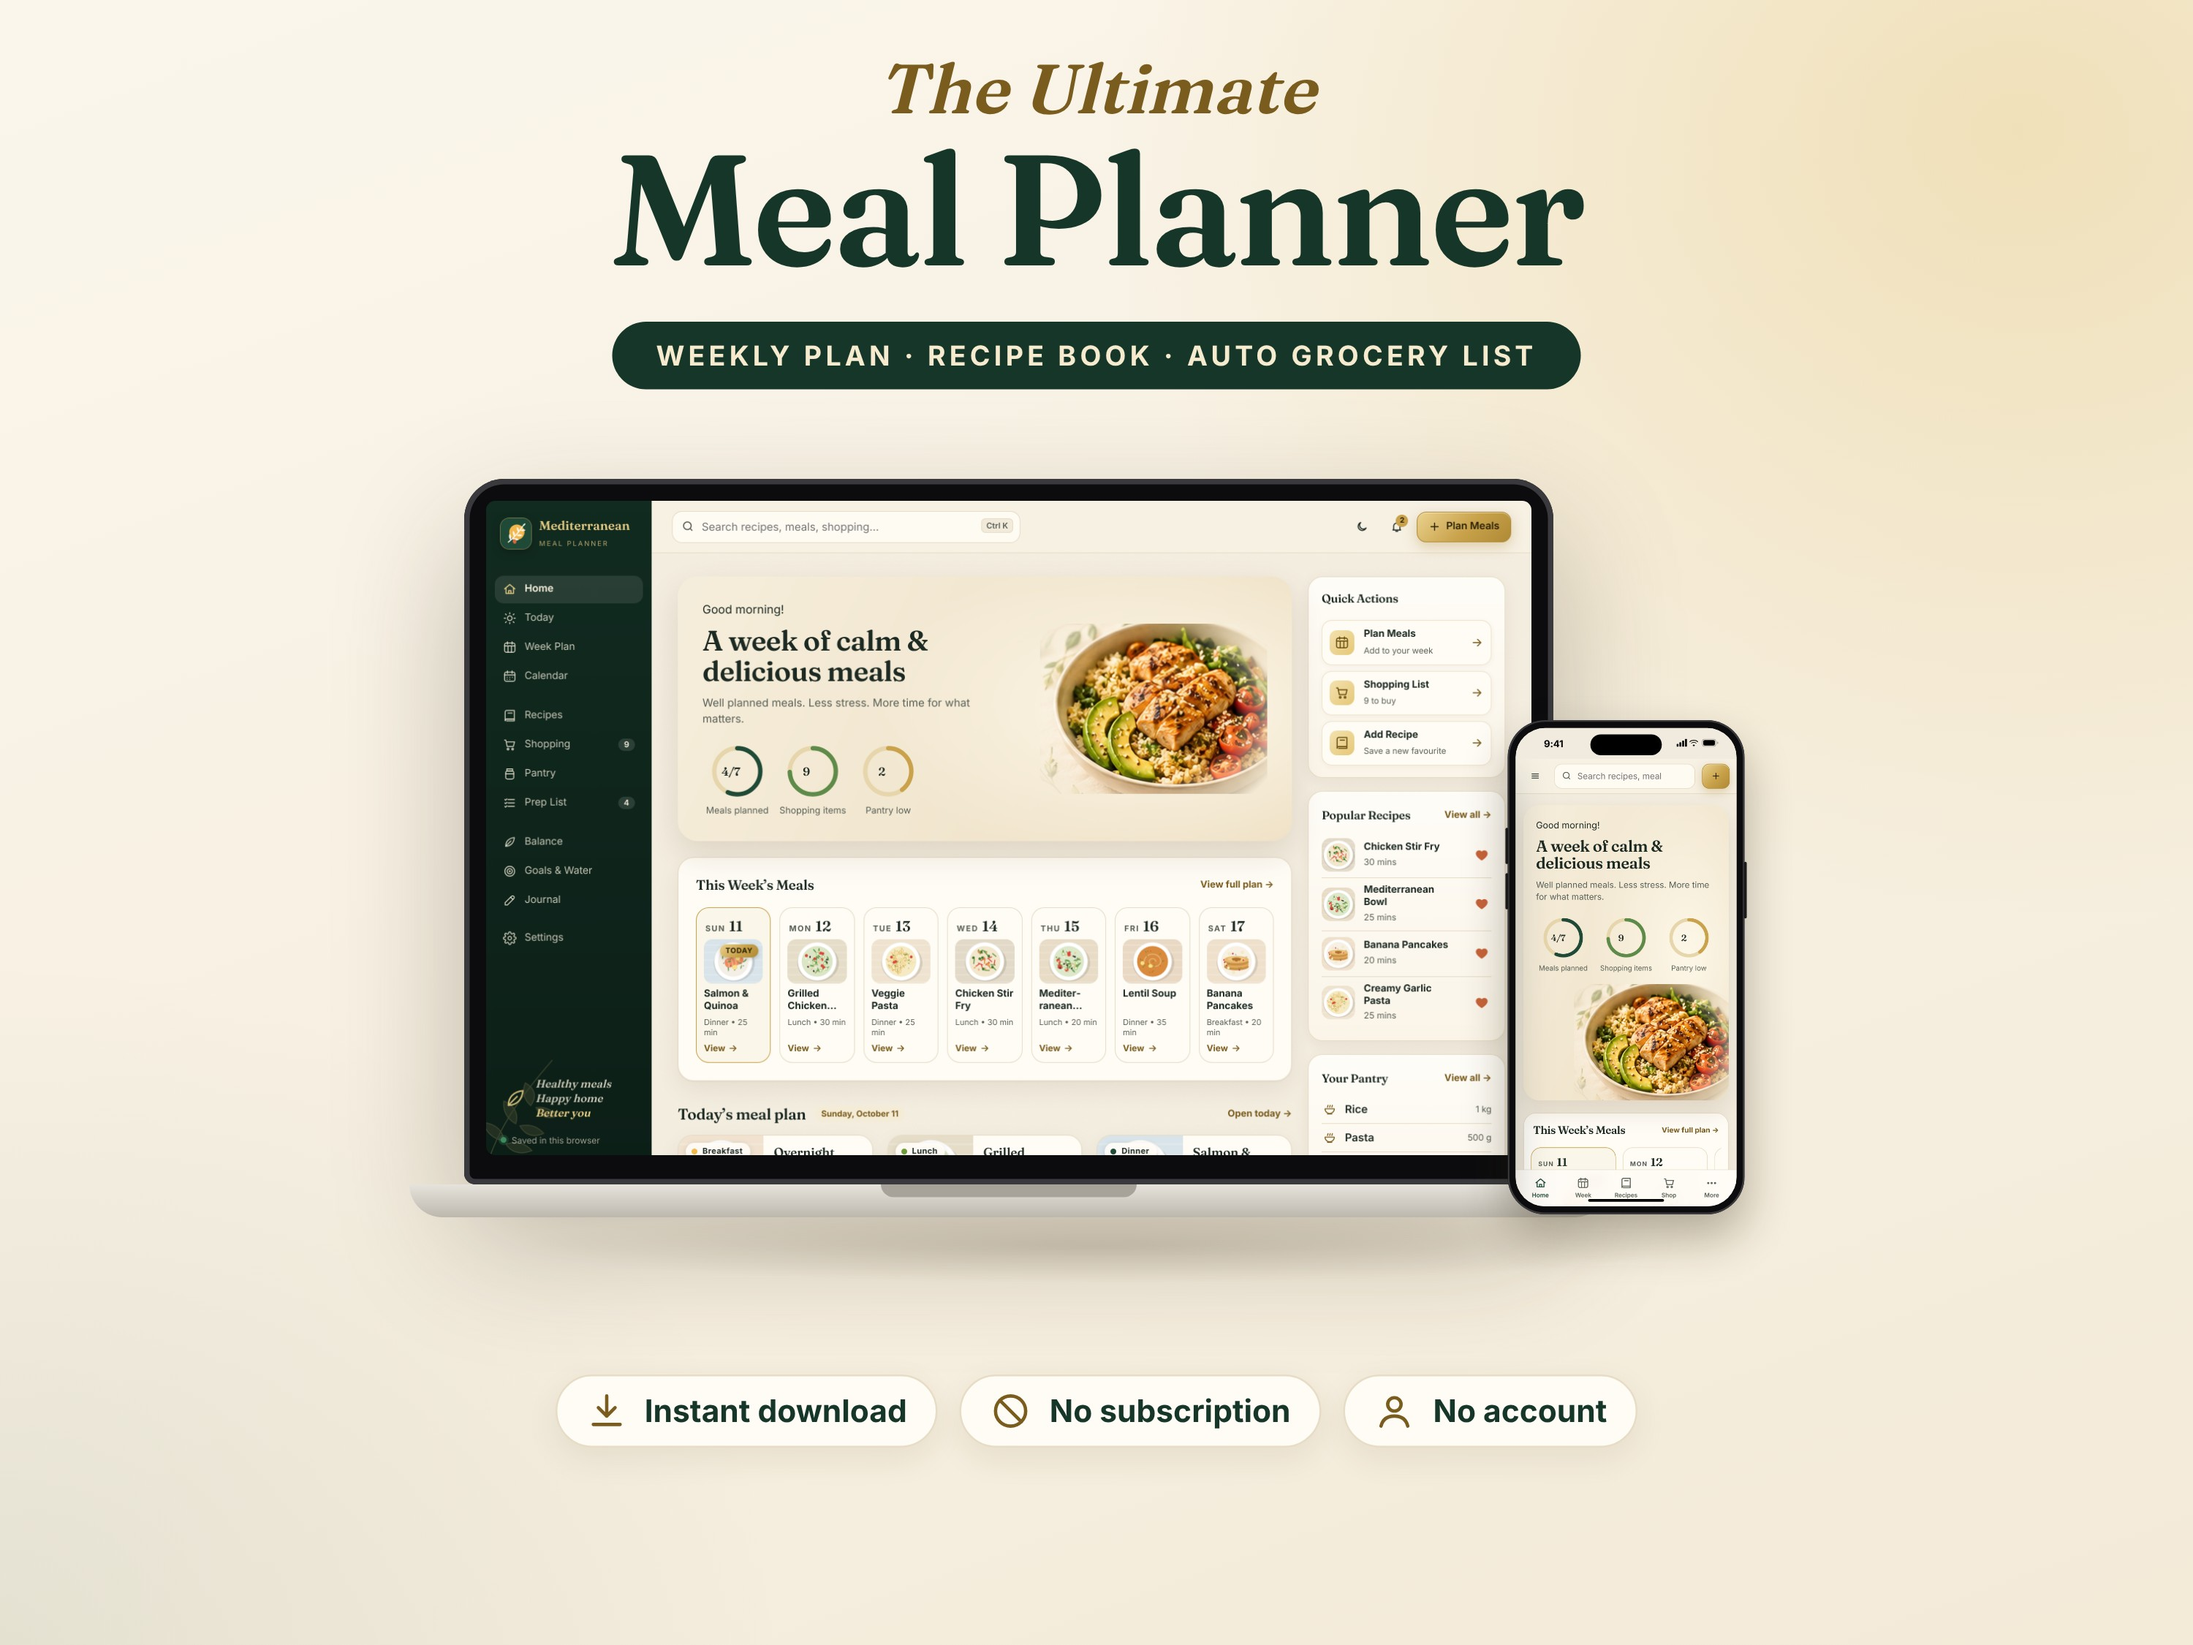
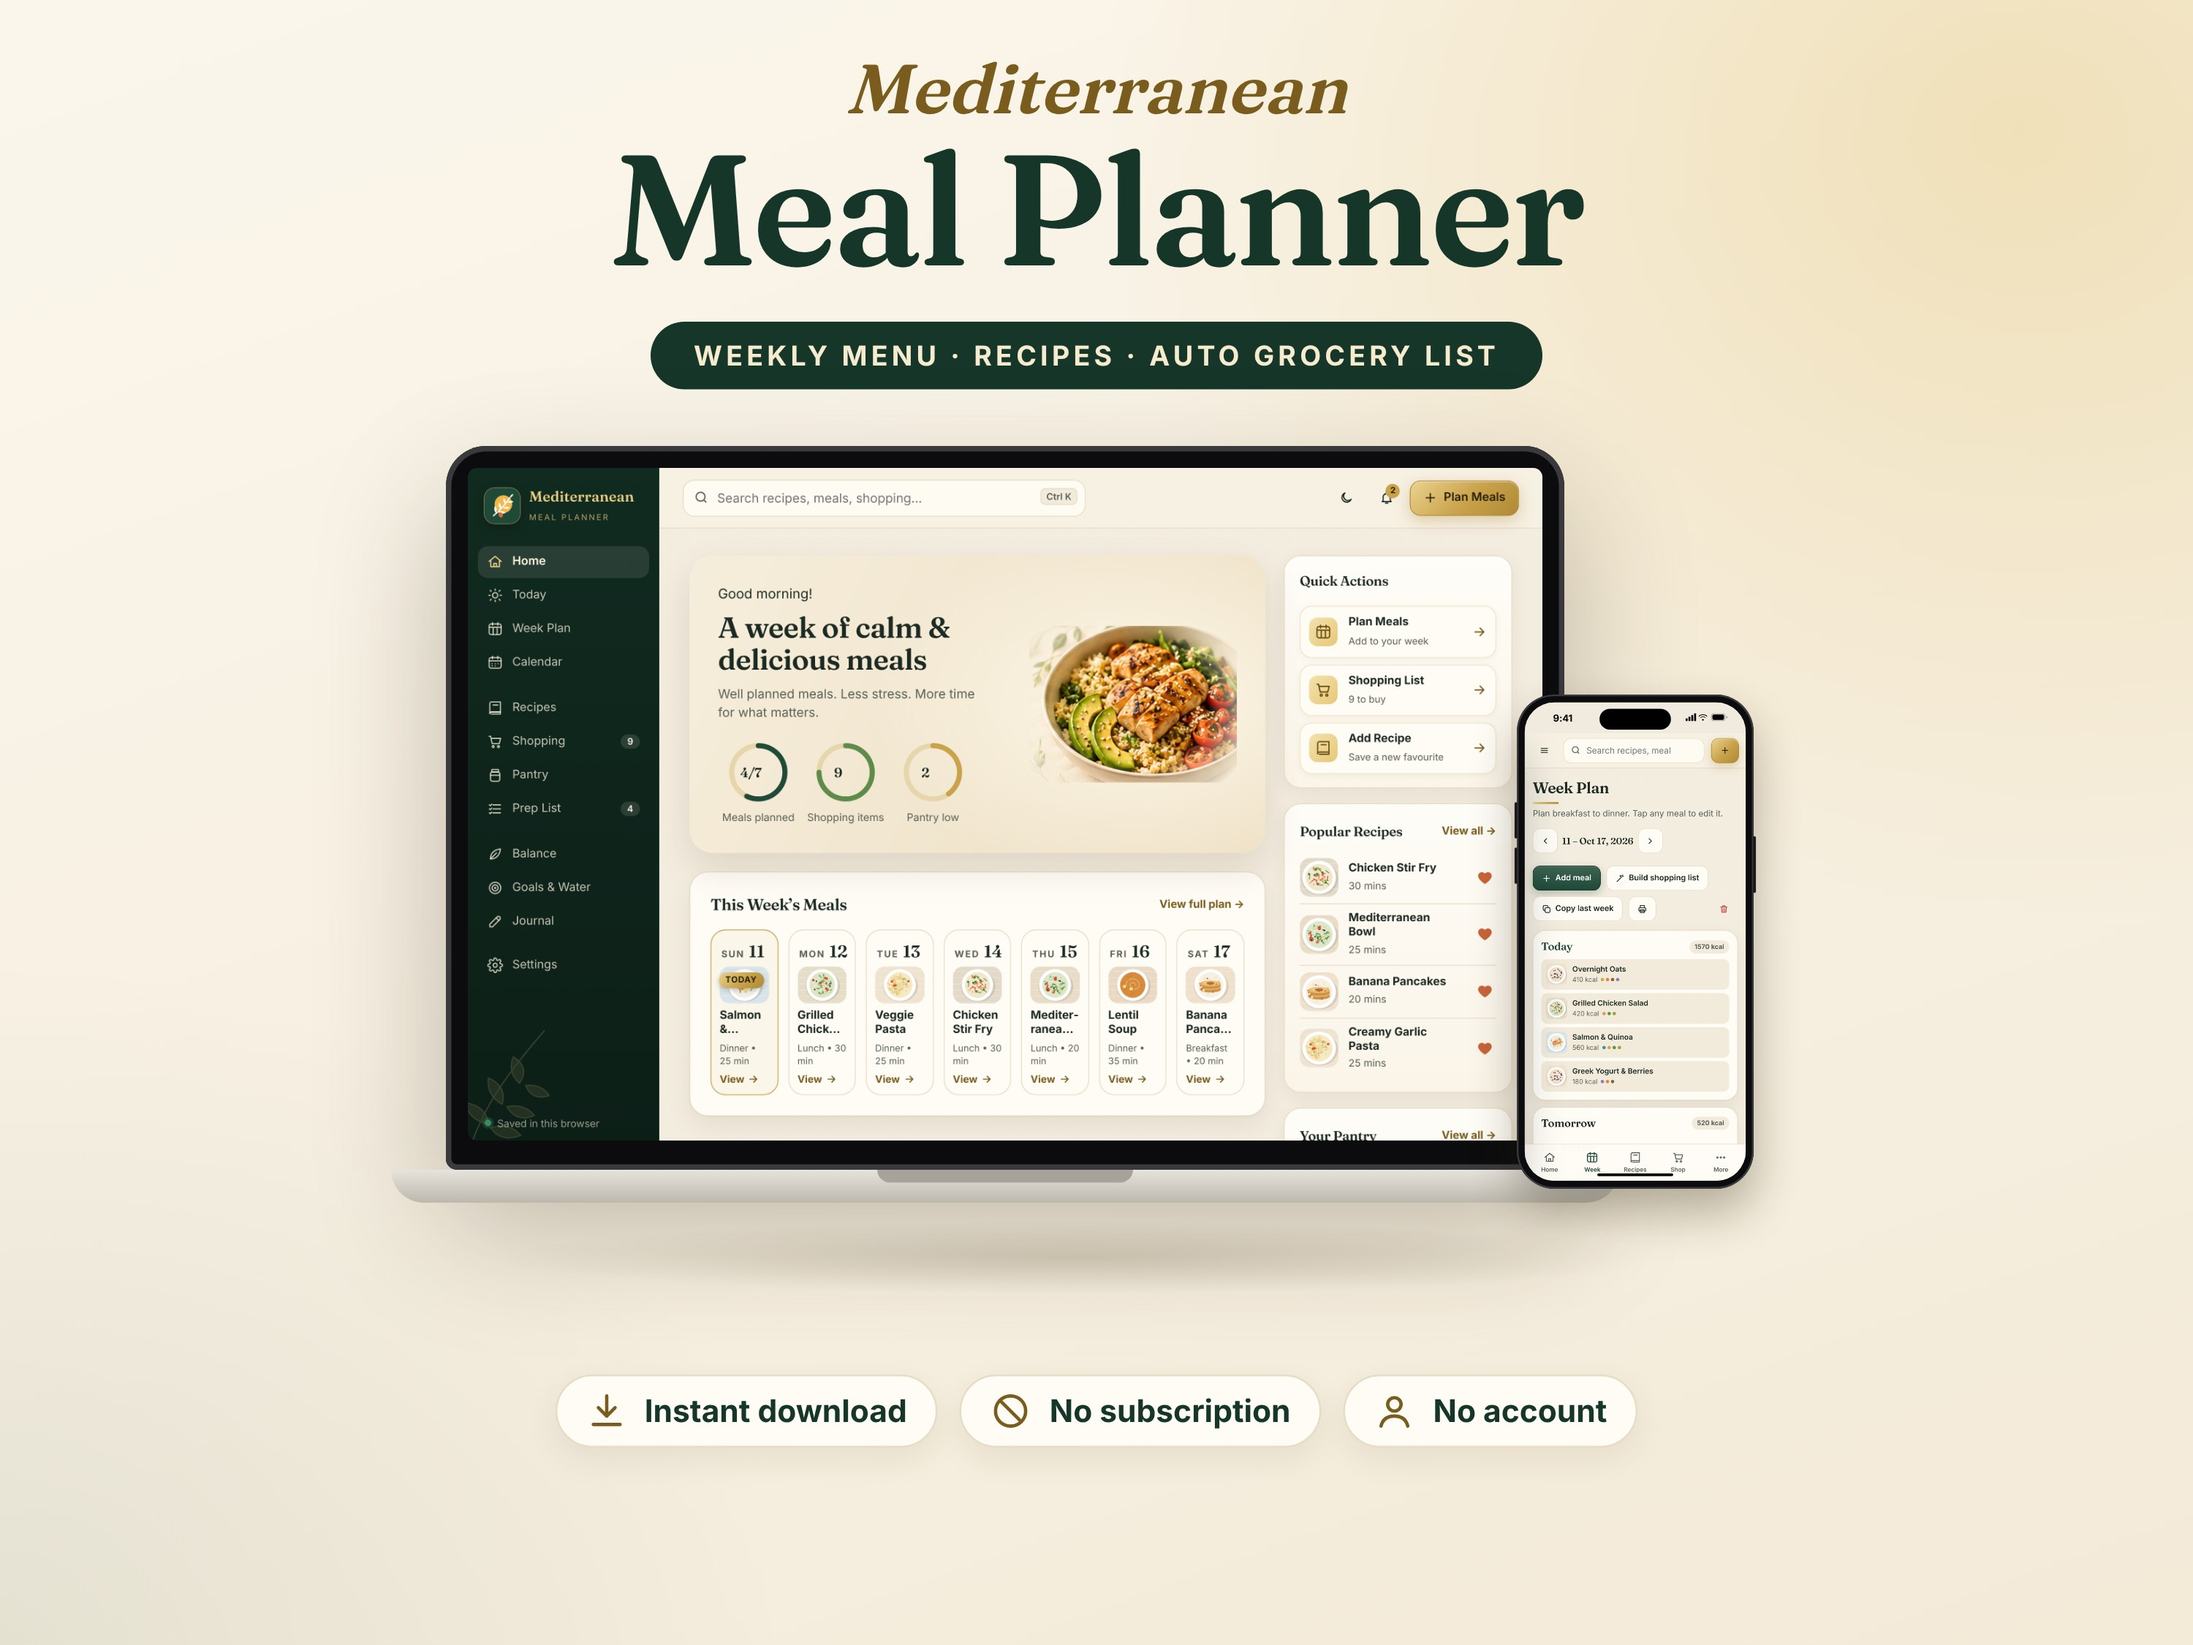
Fix

Changed region(s): [[0.186, 0.1867, 0.806, 0.7778], [0.372, 0.0311, 0.62, 0.0933]]

diff --git a/6-ETSY-LISTING/ETSY-LISTING-KIT.md b/6-ETSY-LISTING/ETSY-LISTING-KIT.md
@@ -98,7 +98,7 @@ Only verified claims are used. Not claimed until tested on real devices: offline
 
 | # | File | Job |
 |---|------|-----|
-| 1 | `01-hero.jpg` | Thumbnail: "The Ultimate Meal Planner", strip weekly plan · recipe book · auto grocery list, the real dashboard on a large laptop with a small iPhone, chips instant download · no subscription · no account. |
+| 1 | `01-hero.jpg` | Thumbnail: small italic "Mediterranean" over big "Meal Planner", strip weekly menu · recipes · auto grocery list, laptop showing the real Home dashboard + phone showing the Week Plan, chips instant download · no subscription · no account. |
 | 2 | `02-week-plan.jpg` | “What’s for dinner?” at 6 pm → know every meal before the week starts. |
 | 3 | `03-plan-to-list.jpg` | Handwritten lists → the grocery list writes itself (same items merged, by aisle, skips pantry). |
 | 4 | `04-on-your-phone.jpg` | No list at the shop → your whole plan in your pocket. |
@@ -112,7 +112,7 @@ Only verified claims are used. Not claimed until tested on real devices: offline
 ### Alt text (Etsy: Photos → hover the photo → "Add alt text")
 | # | Alt text |
 |---|----------|
-| 1 | The Ultimate Meal Planner digital app on a laptop and an iPhone showing the home dashboard with this week's meals, with weekly plan, recipe book and automatic grocery list, instant download, no subscription, no account |
+| 1 | Mediterranean Meal Planner digital app: home dashboard with this week's meals on a laptop and the weekly meal plan on an iPhone, with weekly menu, recipes and automatic grocery list, instant download, no subscription, no account |
 | 2 | Weekly meal planner on a laptop with breakfast, lunch, dinner and snacks for each day, headline Know every meal before the week starts |
 | 3 | Two iPhone screens: the weekly meal plan and the grocery list sorted by aisle, headline Your grocery list writes itself |
 | 4 | Three iPhone screens of the meal planner: today's meals, the home dashboard and the shopping list, headline Your whole plan, in your pocket |
